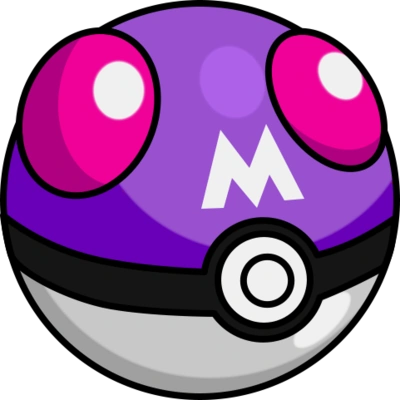
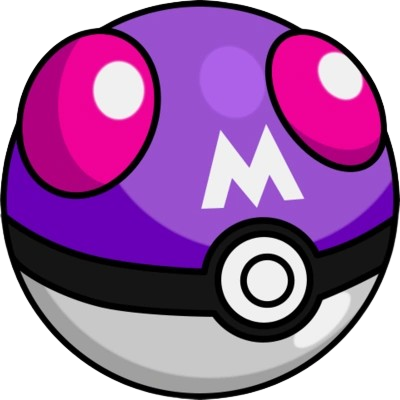
fix: MasterBall IMG

diff --git a/css/style.css b/css/style.css
@@ -135,7 +135,7 @@ button:hover {
 
 .team-pokemon-list li {
     margin: 10px;
-    background-image: url('https://static.wikia.nocookie.net/monster-master/images/4/48/Master_ball_by_peetzaahhh2010-d93nt8r.png/revision/latest?cb=20170523124618');
+    background-image: url('../img/Masterball.png');
     background-repeat: no-repeat;
     background-size: contain;
     background-position: center;
